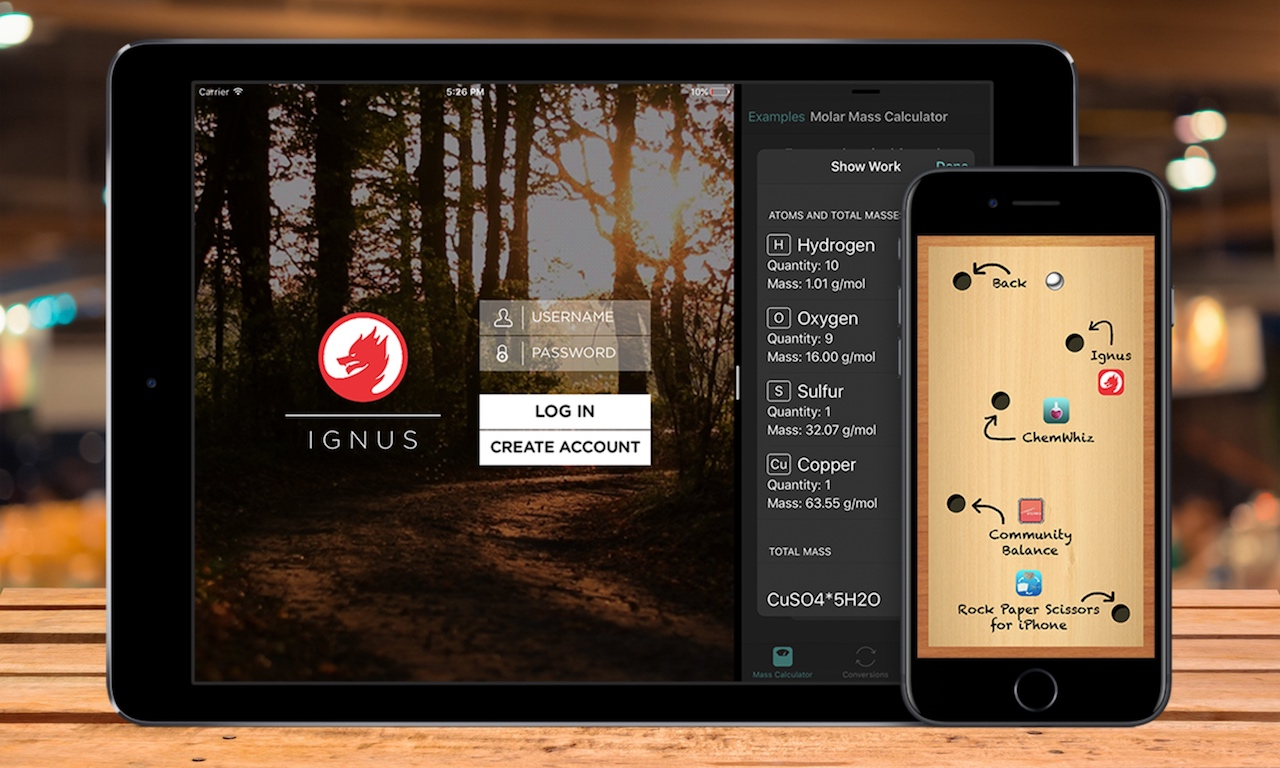
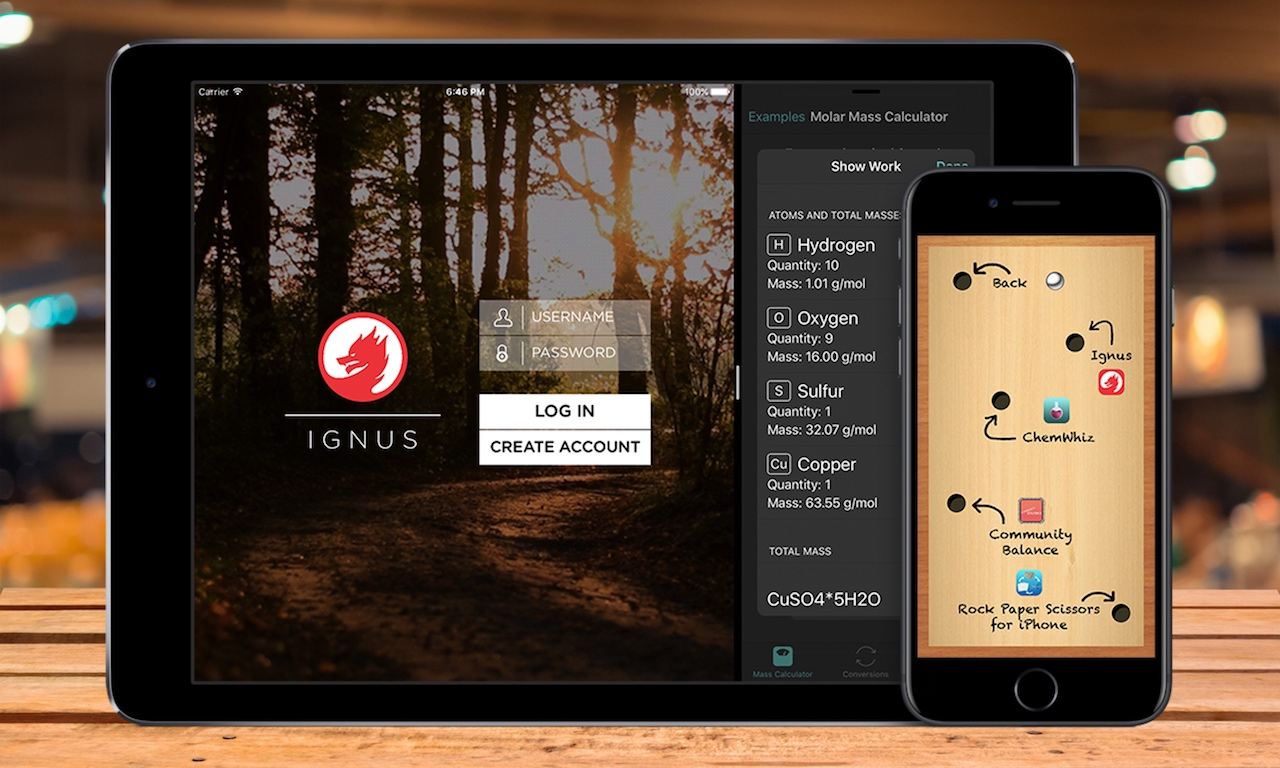
Optimize formatting, change projects photo
Restyle site so that the bottom “other links” div always stays at the
bottom of the scrollable area.
Change projects preview photo so that the battery says 100%

diff --git a/beta/index.html b/beta/index.html
@@ -29,63 +29,66 @@
 				</ul>
 			</div>
 		</div>
-		<div id="hero">
-			<img src="Image Text Background.png" id="heroTextBackground">
-			<div id="heroContent">
-				<div id="heroText">
-					<h1 id="heroTitle"><strong>Hi.</strong> I&#39;m Anant.</h1>
-					<h2 id="heroDetail">I&#39;m a <strong>full-stack mobile developer</strong> with experience in <strong>machine learning</strong> and <strong>Big Data analytics</strong>. I&#39;m also a hobbyist photographer.</h2>
+		<div id="container">
+			<div id="headerDiv"></div>
+			<div id="hero">
+				<img src="Image Text Background.png" id="heroTextBackground">
+				<div id="heroContent">
+					<div id="heroText">
+						<h1 id="heroTitle"><strong>Hi.</strong> I&#39;m Anant.</h1>
+						<h2 id="heroDetail">I&#39;m a <strong>full-stack mobile developer</strong> with experience in <strong>machine learning</strong> and <strong>Big Data analytics</strong>. I&#39;m also a hobbyist photographer.</h2>
+					</div>
 				</div>
 			</div>
-		</div>
-		<div id="bulletFacts">
-			<div id="bulletFactsContent">
-				<ul id="bulletFacts">
-					<li><span>Presidential Scholar at the University of Southern California studying Computer Science (class of 2020)</span></li>
-					<li><span>Accomplished iOS developer with formal recognition from Apple, Inc. as a <strong>WWDC 2015 scholarship winner</strong></span></li>
-					<li><span>Firsthand experience implementing machine learning and Big Data analytics in my internships at <strong>Uber</strong> and <strong>Cisco</strong></span></li>
-					<li><span>Proficient in <strong>Swift</strong>, <strong>C++</strong>, <strong>Objective-C</strong>, <strong>Python</strong>, <strong>Java</strong>, and <strong>R</strong></span></li>
-					<li><span>Served as a speaker, judge, and coach on various activities, including hackathons</span></li>
-				</ul>
-			</div>
-			
-			<!-- Download resume button -->
-			<a href="Anant - Resume.pdf" id="downloadResumeLink" target="_blank">
-				<div id="downloadResume">
-					<img src="save_icon.svg" id="downloadResumeIcon">
-					<h3 id="downloadResumeText">Download R&#233;sum&#233;</h3>
+			<div id="bulletFacts">
+				<div id="bulletFactsContent">
+					<ul id="bulletFacts">
+						<li><span>Presidential Scholar at the University of Southern California studying Computer Science (class of 2020)</span></li>
+						<li><span>Accomplished iOS developer with formal recognition from Apple, Inc. as a <strong>WWDC 2015 scholarship winner</strong></span></li>
+						<li><span>Firsthand experience implementing machine learning and Big Data analytics in my internships at <strong>Uber</strong> and <strong>Cisco</strong></span></li>
+						<li><span>Proficient in <strong>Swift</strong>, <strong>C++</strong>, <strong>Objective-C</strong>, <strong>Python</strong>, <strong>Java</strong>, and <strong>R</strong></span></li>
+						<li><span>Served as a speaker, judge, and coach on various activities, including hackathons</span></li>
+					</ul>
 				</div>
-			</a>
-			
-			<hr style="width: calc(100% - 100px); max-width: 960px; margin-top: 60px;">
-		</div>
-		
-		<div id="links">
-			<div id="linksContent">
-				<div id="linksItem">
-					<a href="" class="linksItemLink">
-						<img src="Projects-Preview.jpg" class="linkPreview">
-						<h3 class="linkTitle">PROJECTS</h3>
-					</a>
-					<h4 class="linkDetail">Check out some of my work, including published apps on the App Store.</h4>
-				</div>
+				
+				<!-- Download resume button -->
+				<a href="Anant - Resume.pdf" id="downloadResumeLink" target="_blank">
+					<div id="downloadResume">
+						<img src="save_icon.svg" id="downloadResumeIcon">
+						<h3 id="downloadResumeText">Download R&#233;sum&#233;</h3>
+					</div>
 				</a>
-				<div id="linksItem">
-					<a href="" class="linksItemLink">
-						<img src="Photography-Preview.jpg" class="linkPreview">
-						<h3 class="linkTitle">PHOTOGRAPHY</h3>
+				
+				<hr style="width: calc(100% - 100px); max-width: 960px; margin-top: 60px;">
+			</div>
+			
+			<div id="links">
+				<div id="linksContent">
+					<div id="linksItem">
+						<a href="" class="linksItemLink">
+							<img src="Projects-Preview.jpg" class="linkPreview">
+							<h3 class="linkTitle">PROJECTS</h3>
+						</a>
+						<h4 class="linkDetail">Check out some of my work, including published apps on the App Store.</h4>
+					</div>
 					</a>
-					<h4 class="linkDetail">Take a peek at some of my best shots.</h4>
+					<div id="linksItem">
+						<a href="" class="linksItemLink">
+							<img src="Photography-Preview.jpg" class="linkPreview">
+							<h3 class="linkTitle">PHOTOGRAPHY</h3>
+						</a>
+						<h4 class="linkDetail">Take a peek at some of my best shots.</h4>
+					</div>
 				</div>
 			</div>
-		</div>
-		<div id="otherLinks">
-			<div id="otherLinksContent">
-				<a href="https://www.facebook.com/anant.jain.5243" class="imgLink" target="_blank"><img src="facebook.svg" class="link" id="facebook" onmouseover="highlightButton(this)" onmouseout="highlightAllButtons()"></a>
-				<a href="https://twitter.com/jainanant98" class="imgLink" target="_blank"><img src="twitter.svg" class="link" id="twitter" onmouseover="highlightButton(this)" onmouseout="highlightAllButtons()"></a>
-				<a href="https://github.com/janant" class="imgLink" target="_blank"><img src="github.svg" class="link" id="github" onmouseover="highlightButton(this)" onmouseout="highlightAllButtons()"></a>
-				<a href="https://www.linkedin.com/in/anantjain1" class="imgLink" target="_blank"><img src="linkedin.svg" class="link" id="linkedin" onmouseover="highlightButton(this)" onmouseout="highlightAllButtons()"></a>
-				<a href="https://www.instagram.com/cuppaswift/" class="imgLink" target="_blank"><img src="instagram.svg" class="link" id="instagram" onmouseover="highlightButton(this)" onmouseout="highlightAllButtons()"></a>
+			<div id="otherLinks">
+				<div id="otherLinksContent">
+					<a href="https://www.facebook.com/anant.jain.5243" class="imgLink" target="_blank"><img src="facebook.svg" class="link" id="facebook" onmouseover="highlightButton(this)" onmouseout="highlightAllButtons()"></a>
+					<a href="https://twitter.com/jainanant98" class="imgLink" target="_blank"><img src="twitter.svg" class="link" id="twitter" onmouseover="highlightButton(this)" onmouseout="highlightAllButtons()"></a>
+					<a href="https://github.com/janant" class="imgLink" target="_blank"><img src="github.svg" class="link" id="github" onmouseover="highlightButton(this)" onmouseout="highlightAllButtons()"></a>
+					<a href="https://www.linkedin.com/in/anantjain1" class="imgLink" target="_blank"><img src="linkedin.svg" class="link" id="linkedin" onmouseover="highlightButton(this)" onmouseout="highlightAllButtons()"></a>
+					<a href="https://www.instagram.com/cuppaswift/" class="imgLink" target="_blank"><img src="instagram.svg" class="link" id="instagram" onmouseover="highlightButton(this)" onmouseout="highlightAllButtons()"></a>
+				</div>
 			</div>
 		</div>
 	</body>

diff --git a/beta/style.css b/beta/style.css
@@ -30,7 +30,7 @@
 }
 
 div#header {
-	background-color: rgba(255, 255, 255, 0.90);
+	background-color: rgba(255, 255, 255, 0.87);
 	width: 100%;
 	height: 60px;
 	position: fixed;
@@ -153,10 +153,20 @@ body, html {
 	min-width: 750px;
 	margin: 0;
 	padding: 0;
+	height: 100%;
+}
+
+div#headerDiv {
+	height: 60px;
+	width: 100%;
+}
+
+div#container {
+	min-height:100%;
+    position:relative;
 }
 
 div#hero {
-	margin-top: 60px;
 	height: 700px;
 	width: 100%;
 	
@@ -330,35 +340,14 @@ a#downloadResumeLink:active h3 {
 	-webkit-transition: color 0.15s;
 }
 
-div#otherLinks {
-	width: 100%;
-	height: 100px;
-	position: relative;
-	background-color: #222222;
-}
-
-div#otherLinksContent {
-	width: 100%;
-	max-width: 960px;
-	margin-left: auto;
-	margin-right: auto;
-	text-align: center;
-	padding-top: 30px;
-}
-
-.link {
-	height: 40px;
-	width: 40px;
-	display: inline-block;
-	margin: 0px 4px 0px 4px;
-}
-
 div#links {
 	width: 100%;
 	height: 500px;
 	position: relative;
 	margin-top: 10px;
 	margin-bottom: 20px;
+	
+	padding-bottom: 100px;
 }
 
 div#linksContent {
@@ -428,6 +417,31 @@ a.linksItemLink h3:active {
 	text-decoration: none;
 	-webkit-transition: color 0.15s;
 }
+
+div#otherLinks {
+	width: 100%;
+	height: 100px;
+	position: absolute;
+	background-color: #222222;
+	bottom: 0;
+}
+
+div#otherLinksContent {
+	width: 100%;
+	max-width: 960px;
+	margin-left: auto;
+	margin-right: auto;
+	text-align: center;
+	padding-top: 30px;
+}
+
+.link {
+	height: 40px;
+	width: 40px;
+	display: inline-block;
+	margin: 0px 4px 0px 4px;
+}
+
 
 @media (max-width: 1600px) {
     div#hero {

diff --git a/beta/about/style.css b/beta/about/style.css
@@ -30,7 +30,7 @@
 }
 
 div#header {
-	background-color: rgba(255, 255, 255, 0.90);
+	background-color: rgba(255, 255, 255, 0.87);
 	width: 100%;
 	height: 60px;
 	position: fixed;
@@ -179,7 +179,6 @@ div#aboutMeContainer {
 	padding-bottom: 100px;
 	height: 300px;
 	background-color: red;
-/* 	margin-top: 60px; */
 }
 
 div#otherLinks {
